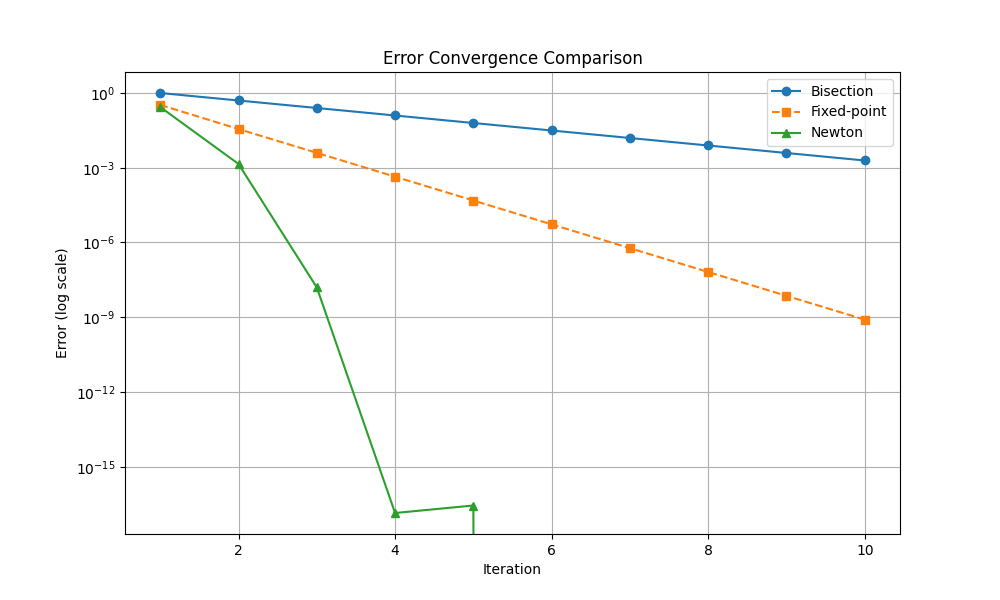
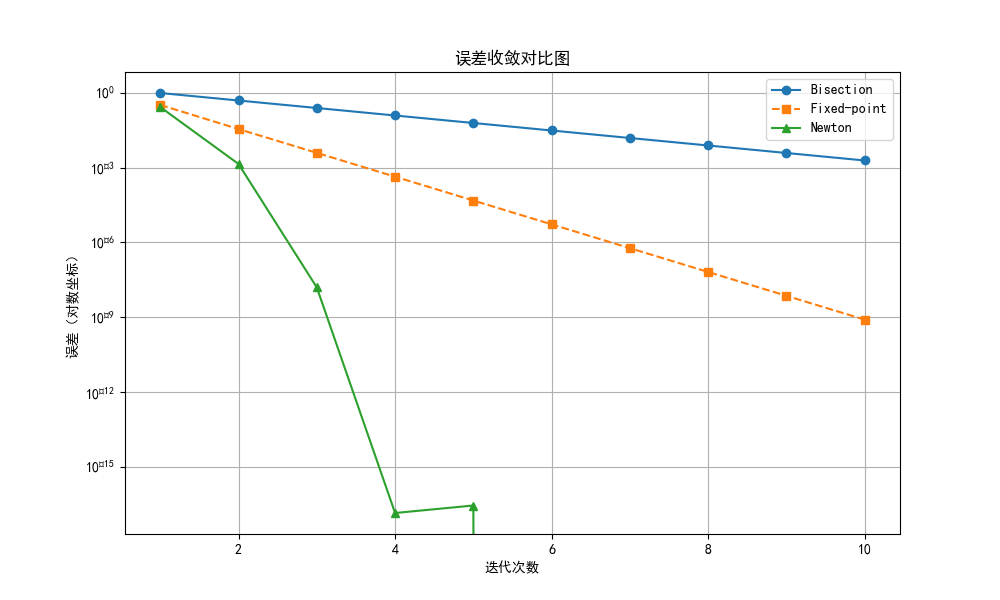
ok

diff --git a/scripts/1_1.py b/scripts/1_1.py
@@ -44,11 +44,15 @@ def newton_method(x0, iterations):
 if __name__ == "__main__":
     iterations = 10
 
+    # 配置中文字体
+    plt.rcParams['font.sans-serif'] = ['SimHei']  # Windows系统黑体
+    plt.rcParams['axes.unicode_minus'] = False  # 解决负号显示问题
+    
     # 初始化绘图
     plt.figure(figsize=(10, 6))
-    plt.title('Error Convergence Comparison')
-    plt.xlabel('Iteration')
-    plt.ylabel('Error (log scale)')
+    plt.title('误差收敛对比图')  # 中文标题
+    plt.xlabel('迭代次数')       # 中文x轴标签
+    plt.ylabel('误差（对数坐标）') # 中文y轴标签
     plt.yscale('log')
 
     # 二分法
